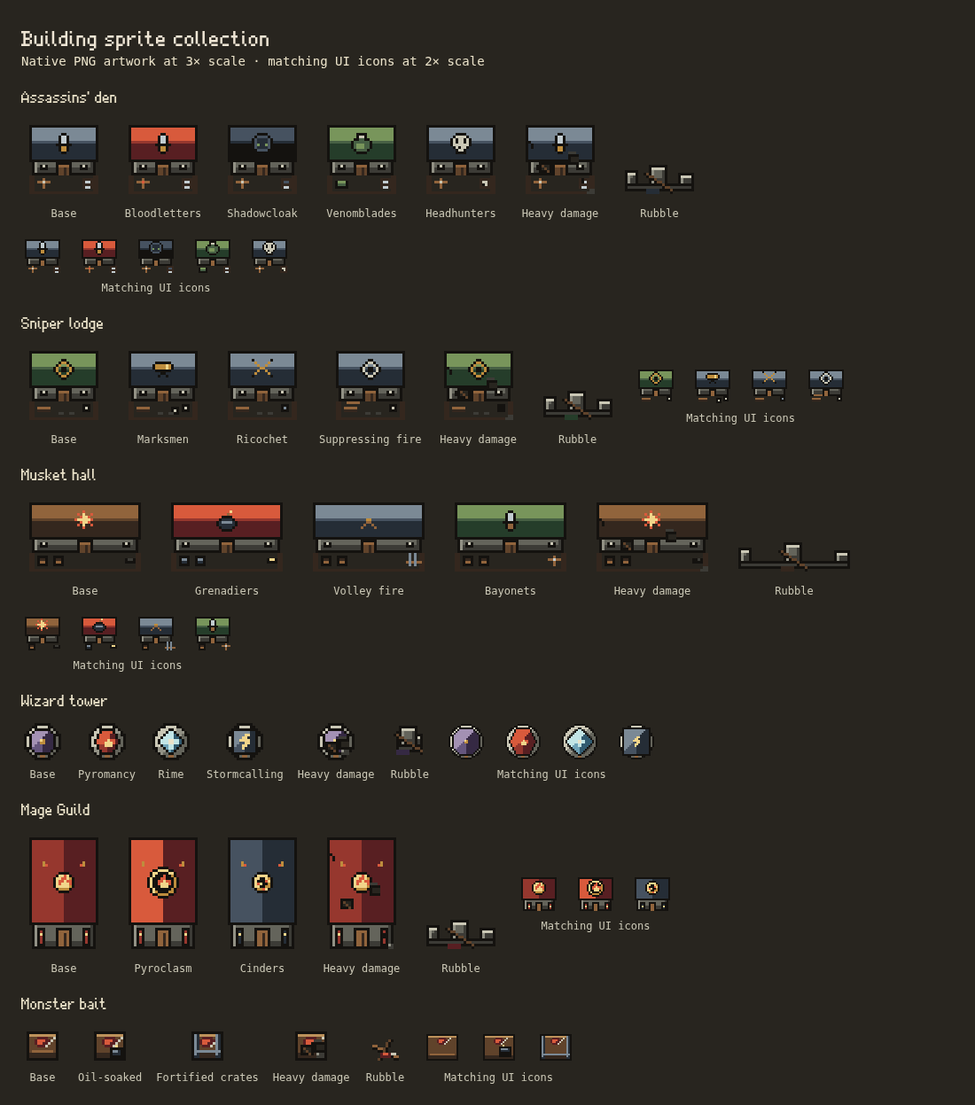
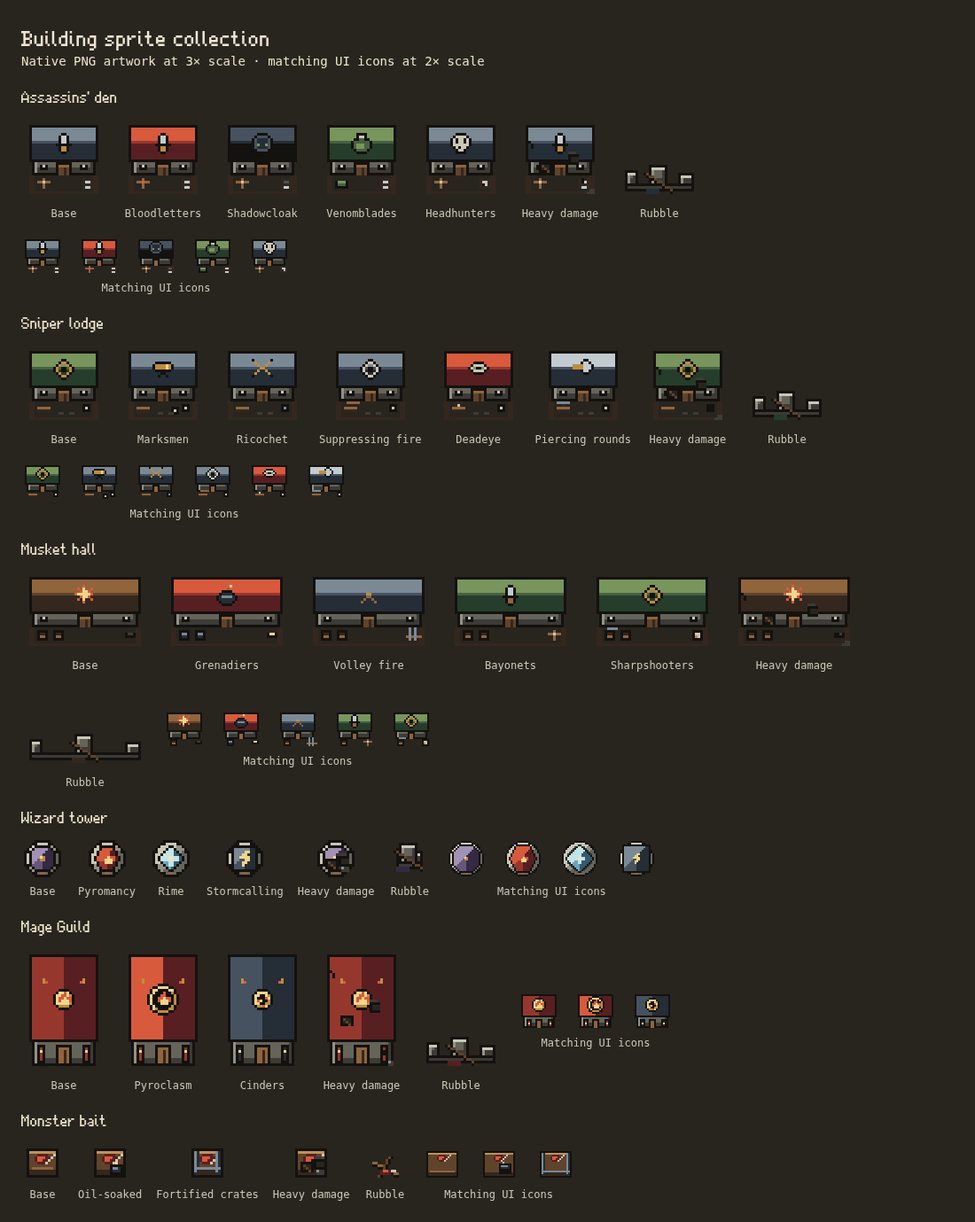
Match sprite paths to latest gunner upgrades and record validation

diff --git a/scripts/pixel-art/build.ts b/scripts/pixel-art/build.ts
@@ -300,10 +300,15 @@ function specialistRoof(kind: Specialist, look: string): Ramp {
     if (look === "shadowcloak") return ["ink", "steelDark", "steel"];
     return ["steelDark", "steel", "steelLight"];
   }
-  if (kind === "sniperLodge") return look ? ["steelDark", "steel", "steelLight"] : ["greenDark", "green", "greenLight"];
+  if (kind === "sniperLodge") {
+    if (look === "deadeye") return ["redDark", "red", "redLight"];
+    if (look === "piercing") return ["steelDark", "steel", "steelBright"];
+    return look ? ["steelDark", "steel", "steelLight"] : ["greenDark", "green", "greenLight"];
+  }
   if (look === "grenadiers") return ["redDark", "red", "redLight"];
   if (look === "volleyFire") return ["steelDark", "steel", "steelLight"];
   if (look === "bayonets") return ["greenDark", "green", "greenLight"];
+  if (look === "sharpMuskets") return ["greenDark", "green", "greenLight"];
   return ["woodDark", "wood", "woodLight"];
 }
 
@@ -321,7 +326,11 @@ function specialistEmblem(p: Drawing, kind: Specialist, look: string, cx: number
     else p.stamp(["...oo...", "..obbo..", "..obbo..", "..obbo..", ".oooooo.", "..oggo..", "..oggo..", "...oo..."], x, y,
       { o: "ink", b: "steelBright", g: "gold" });
   } else if (kind === "sniperLodge") {
-    if (look === "marksmen") p.stamp(["........", ".oooooo.", "ogggglgo", "ogggglgo", ".oooooo.", "...oo...", "..o..o..", "........"], x, y,
+    if (look === "deadeye") p.stamp(["........", "..oooo..", ".obbbbo.", "obgoogbo", ".obbbbo.", "..oooo..", "........", "........"], x, y,
+      { o: "ink", b: "stoneBright", g: "greenLight" });
+    else if (look === "piercing") p.stamp(["....oo..", "...obbo.", "ggggbbbo", "ggggbbbo", "...obbo.", "....oo..", "........", "........"], x, y,
+      { o: "ink", b: "steelBright", g: "gold" });
+    else if (look === "marksmen") p.stamp(["........", ".oooooo.", "ogggglgo", "ogggglgo", ".oooooo.", "...oo...", "..o..o..", "........"], x, y,
       { o: "ink", g: "gold", l: "goldLight" });
     else if (look === "ricochet") p.stamp(["o......o", ".g....g.", "..g..g..", "...gg...", "..g..g..", ".g....g.", "o......o", "........"], x, y,
       { o: "ink", g: "gold" });
@@ -334,7 +343,9 @@ function specialistEmblem(p: Drawing, kind: Specialist, look: string, cx: number
       p.line(x + 1, y + 1, x + 6, y + 6, "ink"); p.line(x + 6, y + 1, x + 1, y + 6, "ink");
       p.line(x + 1, y + 1, x + 3, y + 3, "steelLight"); p.line(x + 6, y + 1, x + 4, y + 3, "steelLight");
       p.line(x + 3, y + 3, x + 6, y + 6, "woodLight"); p.line(x + 4, y + 3, x + 1, y + 6, "woodLight"); p.rect(x + 3, y + 3, 2, 1, "gold");
-    } else if (look === "bayonets") p.stamp(["...oo...", "..obbo..", "..obbo..", "..obbo..", ".oooooo.", "..owwo..", "..owwo..", "...oo..."], x, y,
+    } else if (look === "sharpMuskets") p.stamp(["...oo...", "..obbo..", ".ob..bo.", "ob.oo.bo", "ob.oo.bo", ".ob..bo.", "..obbo..", "...oo..."], x, y,
+      { o: "ink", b: "gold" });
+    else if (look === "bayonets") p.stamp(["...oo...", "..obbo..", "..obbo..", "..obbo..", ".oooooo.", "..owwo..", "..owwo..", "...oo..."], x, y,
       { o: "ink", b: "steelBright", w: "woodLight" });
     else p.stamp(["...r....", ".r.y..r.", "..ryyr..", "ryyyyyr.", "..ryyr..", ".r.y..r.", "...r....", "........"], x, y,
       { r: "redLight", y: "goldLight" });
@@ -378,6 +389,8 @@ function specialistHall(kind: Specialist, look: string, ui = false) {
     if (look === "suppressors") p.rect(left + 1, y - 2, 5, 1, "woodLight");
     p.rect(right, y - 1, 3, 3, "ink"); p.dot(right + 1, y, look === "ricochet" ? "steelLight" : "stoneBright");
     if (look === "marksmen") { p.rect(right - 4, y, 3, 3, "ink"); p.dot(right - 3, y + 1, "stoneBright"); }
+    if (look === "deadeye") { p.rect(left + 1, y - 2, 3, 1, "woodDark"); p.dot(left + 2, y - 1, "stoneBright"); }
+    if (look === "piercing") { p.rect(left, y - 2, 5, 1, "steelLight"); p.dot(left + 2, y - 1, "steelDark"); }
     if (!ui) { p.rect(cx - 2, y + 2, 2, 1, "stoneDark"); p.rect(cx + 2, y + 2, 2, 1, "stoneDark"); }
   } else {
     for (const x of ui ? [left] : [left, left + 6]) {
@@ -387,6 +400,9 @@ function specialistHall(kind: Specialist, look: string, ui = false) {
     if (look === "volleyFire") {
       p.rect(right - 1, y + 1, 6, 1, "woodLight");
       for (const x of [right, right + 2]) p.rect(x, y - 2, 1, 5, "steelLight");
+    } else if (look === "sharpMuskets") {
+      p.rect(right, y - 1, 4, 4, "ink"); p.rect(right + 1, y, 2, 2, "stoneBright"); p.dot(right + 1, y + 1, "gold");
+      p.rect(left + 1, y - 2, 4, 1, "steelLight");
     } else if (look === "bayonets") {
       p.rect(right + 1, y - 1, 1, 4, "woodLight"); p.rect(right - 1, y, 5, 1, "woodLight"); p.dot(right + 1, y, "steelBright");
     } else {

diff --git a/src/defend/building-sprite-manifest.ts b/src/defend/building-sprite-manifest.ts
@@ -26,8 +26,8 @@ export const BUILDING_ART = {
   archerTower: { kind: "archerTower", sheet: "v2/defend/archer-tower", icon: "v2/ui/archer-tower", footprint: [2, 2], size: [16, 16], anchor: [8, 8], contentBounds: [1, 1, 14, 14], overhang: [0, 0, 0, 0], looks: ["", "fireArrows", "sharpshooters"], stages: 4 },
   cannonTower: { kind: "cannonTower", sheet: "v2/defend/cannon-tower", icon: "v2/ui/cannon-tower", footprint: [2, 2], size: [16, 16], anchor: [8, 8], contentBounds: [1, 1, 14, 14], overhang: [0, 0, 0, 0], looks: ["", "gunnery", "siegeShot"], stages: 4 },
   assassinDen: { kind: "assassinDen", sheet: "v2/defend/assassin-den", icon: "v2/ui/assassin-den", footprint: [4, 4], size: [32, 32], anchor: [16, 16], contentBounds: [3, 3, 26, 26], overhang: [0, 0, 0, 0], looks: ["", "bloodletters", "shadowcloak", "venom", "headhunters"], stages: 4 },
-  sniperLodge: { kind: "sniperLodge", sheet: "v2/defend/sniper-lodge", icon: "v2/ui/sniper-lodge", footprint: [4, 4], size: [32, 32], anchor: [16, 16], contentBounds: [3, 3, 26, 26], overhang: [0, 0, 0, 0], looks: ["", "marksmen", "ricochet", "suppressors"], stages: 4 },
-  musketHall: { kind: "musketHall", sheet: "v2/defend/musket-hall", icon: "v2/ui/musket-hall", footprint: [6, 4], size: [48, 32], anchor: [24, 16], contentBounds: [3, 3, 42, 26], overhang: [0, 0, 0, 0], looks: ["", "grenadiers", "volleyFire", "bayonets"], stages: 4 },
+  sniperLodge: { kind: "sniperLodge", sheet: "v2/defend/sniper-lodge", icon: "v2/ui/sniper-lodge", footprint: [4, 4], size: [32, 32], anchor: [16, 16], contentBounds: [3, 3, 26, 26], overhang: [0, 0, 0, 0], looks: ["", "marksmen", "ricochet", "suppressors", "deadeye", "piercing"], stages: 4 },
+  musketHall: { kind: "musketHall", sheet: "v2/defend/musket-hall", icon: "v2/ui/musket-hall", footprint: [6, 4], size: [48, 32], anchor: [24, 16], contentBounds: [3, 3, 42, 26], overhang: [0, 0, 0, 0], looks: ["", "grenadiers", "volleyFire", "bayonets", "sharpMuskets"], stages: 4 },
   wizardTower: { kind: "wizardTower", sheet: "v2/defend/wizard-tower", icon: "v2/ui/wizard-tower", footprint: [2, 2], size: [16, 16], anchor: [8, 8], contentBounds: [1, 1, 14, 14], overhang: [0, 0, 0, 0], looks: ["", "pyromancy", "rime", "storm"], stages: 4 },
   mageGuild: { kind: "mageGuild", sheet: "v2/defend/mage-guild", icon: "v2/ui/mage-guild", footprint: [4, 6], size: [32, 48], anchor: [16, 24], contentBounds: [3, 3, 26, 42], overhang: [0, 0, 0, 0], looks: ["", "pyroclasm", "cinders"], stages: 4 },
   monsterBait: { kind: "monsterBait", sheet: "v2/defend/monster-bait", icon: "v2/ui/monster-bait", footprint: [2, 2], size: [16, 16], anchor: [8, 8], contentBounds: [1, 1, 14, 14], overhang: [0, 0, 0, 0], looks: ["", "oilSoaked", "fortified"], stages: 4 },

diff --git a/docs/art/BUILDING_BATCH_03.md b/docs/art/BUILDING_BATCH_03.md
@@ -11,20 +11,20 @@ Paths are relative to `public/assets/pixel/v2/`. World-sheet columns are base + 
 | World sheet / UI sheet | World sheet size | Native frame / footprint in cells | Anchor | Looks |
 | --- | --- | --- | --- | --- |
 | `defend/assassin-den.png` / `ui/assassin-den.png` | 160×160 | 32×32 / 4×4 | 16,16 | Base, Bloodletters, Shadowcloak, Venomblades, Headhunters |
-| `defend/sniper-lodge.png` / `ui/sniper-lodge.png` | 128×160 | 32×32 / 4×4 | 16,16 | Base, Marksmen, Ricochet, Suppressing fire |
-| `defend/musket-hall.png` / `ui/musket-hall.png` | 192×160 | 48×32 / 6×4 | 24,16 | Base, Grenadiers, Volley fire, Bayonets |
+| `defend/sniper-lodge.png` / `ui/sniper-lodge.png` | 192×160 | 32×32 / 4×4 | 16,16 | Base, Marksmen, Ricochet, Suppressing fire, Deadeye, Piercing rounds |
+| `defend/musket-hall.png` / `ui/musket-hall.png` | 240×160 | 48×32 / 6×4 | 24,16 | Base, Grenadiers, Volley fire, Bayonets, Sharpshooters |
 | `defend/wizard-tower.png` / `ui/wizard-tower.png` | 64×80 | 16×16 / 2×2 | 8,8 | Base, Pyromancy, Rime, Stormcalling |
 | `defend/mage-guild.png` / `ui/mage-guild.png` | 96×240 | 32×48 / 4×6 | 16,24 | Base, Pyroclasm, Cinders |
 | `defend/monster-bait.png` / `ui/monster-bait.png` | 48×80 | 16×16 / 2×2 | 8,8 | Base, Oil-soaked, Fortified crates |
 
-UI frames are purpose-composed at 24×24. The den sheet is 120×24, the Sniper/Musket/Wizard sheets are 96×24, and the Mage/Bait sheets are 72×24. Total: **twelve PNG files, 115 world-state frames and 23 UI icons**.
+UI frames are purpose-composed at 24×24. The den sheet is 120×24, the Sniper sheet is 144×24, the Musket sheet is 120×24, the Wizard sheet is 96×24, and the Mage/Bait sheets are 72×24. Total: **twelve PNG files, 130 world-state frames and 26 UI icons**.
 
-The collection now covers **fourteen of sixteen building families**, with 31 native PNG sheets, 231 world-state frames and 42 matching UI icons, plus the existing flag/scaffold images. Valkyrie palace and Dark wizard keep remain pending, including their compact and special rendering cases.
+The collection now covers **fourteen of twenty-one building families**, with 31 native PNG sheets, 246 world-state frames and 45 matching UI icons, plus the existing flag/scaffold images. Valkyrie palace and Dark wizard keep remain pending, including their compact and special rendering cases. Main gained five gunner building families while this batch was in progress; Gunner hall, Machine-gun nest, Gatling emplacement, Rocket battery and Revolutionary are now tracked as pending too. The merge also added Deadeye, Piercing rounds and Musket Sharpshooters; this batch includes their PNGs.
 
 ## Art direction and integration
 
 - Stone, timber, steel, brass and cloth retain the earlier material ramps, crisp one-pixel outlines, quiet surfaces and upper-left lighting. The shared palette gains just two controlled three-color ramps: violet (`#352943`, `#65567D`, `#A391B3`) and frost (`#325B70`, `#6FA3B8`, `#C2E5E6`). The collection has 30 swatches, with the same limits of **16 opaque colors per standing world frame and 12 per UI icon**. No antialiased sprite alpha, blur, generated noise or external sprite pack.
-- Den paths use distinct blade, hood, vial and skull insignia and appropriate yard equipment; these are building emblems/props, not unit sprites. Sniper paths use a sight, brass spyglass, ricochet track or bright crosshair with targets/defensive rails. Musket paths use powder burst, grenade, crossed muskets or bayonet equipment and matching racks/stock.
+- Den paths use distinct blade, hood, vial and skull insignia and appropriate yard equipment; these are building emblems/props, not unit sprites. Sniper paths use a sight, brass spyglass, ricochet track or bright crosshair with targets/defensive rails; Deadeye adds a wine-red roof and eye, while Piercing rounds has a pale steel roof and an arrow through its sight. Musket paths use powder burst, grenade, crossed muskets or bayonet equipment and matching racks/stock; Sharpshooters adds a green roof, brass sight and long rifle rack.
 - Wizard paths change the roof silhouette as well as its material and finial: violet octagon, fire hexagon, frost diamond, storm square. Stone foundations and a south-facing entrance remain legible. Mage paths have the base fire well, a larger Pyroclasm well, or a charcoal roof/ember hearth for Cinders; the UI also distinguishes the larger well. Bait retains meat/bone cargo, an oil pot or iron straps; its rubble is broken timber and spilled cargo, not masonry.
 - Existing numerical ranks within each path share the same building look, matching the game's current path-look semantics. Rubble is shared across each family's paths after its equipment collapses. All path and damage frames retain their declared footprint, pivot and silhouette bounds; wide Musket halls and tall Mage Guilds use their actual catalog orientation, never stretched square images.
 - The shared manifest registers these PNGs automatically with the existing loader/cache revision. **Pixel Art checked selects the new sprites; unchecked restores the exact legacy drawings.** Loading/failed world sheets keep the existing fallback. Build palette, Tiles, building-tree canvases, carried icons and placement ghosts share the same family/path identity. Rebuilding uses the existing one-cell PNG scaffold.
@@ -34,7 +34,7 @@ The collection now covers **fourteen of sixteen building families**, with 31 nat
 
 `scripts/pixel-art/build.ts` contains the editable native drawings. `building-sprite-manifest.ts` records exact frame sizes, content bounds, anchors, footprints, paths and overhangs. Run `npm run sprites` to rebuild, or `npm run sprites -- --check` to verify the committed PNGs. All nineteen earlier sprite files are unchanged.
 
-The existing asset tests automatically cover every new file: reproducibility, PNG signature/decoding, palette/alpha limits, catalog footprints, every path, frame dimensions, content bounds and stable damage silhouettes. Browser checks exercise all 231 world frames at desktop/DPR1, phone/DPR2 and phone/DPR3, compare on/off rendering against independent legacy pixels, and check failed-image fallback, UI/drag/placement images, keep motion/masks, real reconstruction routing, sampling and camera transforms. The saved Settings/whole-board test covers the complete 66-image registry.
+The existing asset tests automatically cover every new file: reproducibility, PNG signature/decoding, palette/alpha limits, catalog footprints, every path, frame dimensions, content bounds and stable damage silhouettes. Browser checks exercise all 246 world frames at desktop/DPR1, phone/DPR2 and phone/DPR3, compare on/off rendering against independent legacy pixels, and check failed-image fallback, UI/drag/placement images, keep motion/masks, real reconstruction routing, sampling and camera transforms. The saved Settings/whole-board test covers the complete 66-image registry.
 
 Generate this batch's contact sheet while keeping all-family test coverage:
 
@@ -45,4 +45,11 @@ PLAYWRIGHT_EXECUTABLE=/usr/bin/chromium node tests/building-sprites.mjs
 
 A dev server is required; set `TEST_URL` to select it. The generated sheet is `test-results/building-sprites/contact-sheet.png`; its reviewed copy is committed above. All browser fixtures use isolated contexts and never a player's save.
 
-The twelve new files decode to **488,192 RGBA bytes (476.75 KiB)** before browser overhead. The entire clean building PNG collection decodes to **932.75 KiB**. No new animation passes or unbounded caches are introduced. Fractional overview sampling, remaining UI/theme/terrain artwork and the two large building families are still tracked in the [guide](PIXEL_ART_GUIDE.md) and [inventory](PIXEL_ART_INVENTORY.md).
+The twelve new files decode to **566,784 RGBA bytes (553.5 KiB)** before browser overhead. The entire clean building PNG collection decodes to **1,009.5 KiB**. No new animation passes or unbounded caches are introduced. Fractional overview sampling, remaining UI/theme/terrain artwork and the seven pending building families are still tracked in the [guide](PIXEL_ART_GUIDE.md) and [inventory](PIXEL_ART_INVENTORY.md).
+
+## Validation record
+
+- Full `npm test` passed after the merge: **579 tests, zero failures**.
+- Reproducible PNG check and production TypeScript/Vite build passed after incorporating main's gunner line and upgrade map. All nineteen previously delivered PNG files retain their exact bytes; the build copies all 31 current native PNGs unchanged.
+- Browser matrix passed all **246 world frames** at 1100px/DPR1, 390px/DPR2 and 360px/DPR3, including legacy on/off parity, icons, placement, camera transforms, reduced motion, reconstruction and missing-PNG fallback. Saved Settings/whole-board checks passed with all 66 registered images.
+- The existing stress fixture completed 120 recorded frames with 500 requested enemies (513 average including spawned enemies): mean simulation 1.97 ms, drawing 45.93 ms, combined work p95 101.70 ms. This is an instrumented whole-scene measurement in headless Chromium 154 at DPR1 using SwiftShader/software Canvas, with the Node suite running concurrently; it is neither a sprite-only cost nor a player-device frame-rate claim. JSON, CPU profile and screenshot are generated under `test-results/stress-building-batch03.*`.

diff --git a/docs/art/PIXEL_ART_INVENTORY.md b/docs/art/PIXEL_ART_INVENTORY.md
@@ -34,8 +34,13 @@ Source footprint dimensions are simulation cells. Proposed base footprint pixels
 | [x] | `meleeGuild` — Melee Guild | 4×4 → 32×32 | — | v2 base, all damage/rubble, rebuilding and UI; batch 02 |
 | [x] | `rangedGuild` — Ranged Guild | 4×4 → 32×32 | — | v2 base, all damage/rubble, rebuilding and UI; batch 02 |
 | [x] | `assassinDen` — Assassins' den | 4×4 → 32×32 | — | v2 base + Bloodletters/Shadowcloak/Venomblades/Headhunters, all damage/rubble, rebuilding and UI; batch 03 |
-| [x] | `sniperLodge` — Sniper lodge | 4×4 → 32×32 | — | v2 base + Marksmen/Ricochet/Suppressing fire, all damage/rubble, rebuilding and UI; batch 03 |
-| [x] | `musketHall` — Musket hall | 6×4 → 48×32 | — | v2 base + Grenadiers/Volley fire/Bayonets, all damage/rubble, rebuilding and UI; batch 03 |
+| [x] | `sniperLodge` — Sniper lodge | 4×4 → 32×32 | — | v2 base + Marksmen/Ricochet/Suppressing fire/Deadeye/Piercing rounds, all damage/rubble, rebuilding and UI; batch 03 |
+| [ ] | `gunHall` — Gunner hall | 4×4 → 32×32 | — | Create; gunner line merged during batch 03 |
+| [ ] | `gunNest` — Machine-gun nest | 4×4 → 32×32 | — | Create; gunner line merged during batch 03 |
+| [ ] | `gatlingNest` — Gatling emplacement | 4×4 → 32×32 | — | Create; gunner line merged during batch 03 |
+| [ ] | `rocketBattery` — Rocket battery | 4×4 → 32×32 | — | Create; gunner line merged during batch 03 |
+| [ ] | `revolutionary` — Revolutionary | 4×4 → 32×32 | — | Create; gunner line merged during batch 03 |
+| [x] | `musketHall` — Musket hall | 6×4 → 48×32 | — | v2 base + Grenadiers/Volley fire/Bayonets/Sharpshooters, all damage/rubble, rebuilding and UI; batch 03 |
 | [x] | `barracks` — Barracks | 4×6 → 32×48 | — | v2 normal/wide, base + Crusaders/Berserkers/Halberdiers, all damage/rubble, rebuilding and UI; batch 01 |
 | [x] | `archerBarracks` — Archer barracks | 4×4 → 32×32 | — | v2 base + Rangers/Skirmishers, all damage/rubble, rebuilding and UI; batch 02 |
 | [x] | `archerTower` — Archer tower | 2×2 → 16×16 | — | v2 base + Fire arrows/Sharpshooters, all damage/rubble, rebuilding and UI; batch 02 |
@@ -68,7 +73,7 @@ Areas: **Mossbound Ruins (`moss`), Amber Desert (`desert`), Ember Forge (`ember`
 
 ### B3. Friendly people and summoned units
 
-All twelve `Soldier.kind` values need a consistent sprite family, not just a color swap. Also cover civilian builders. Include movement, facing, attack/cast, hit/death, health/status overlays, weapon origin and shared UI portrait.
+All seventeen `Soldier.kind` values need a consistent sprite family, not just a color swap. Also cover civilian builders. Include movement, facing, attack/cast, hit/death, health/status overlays, weapon origin and shared UI portrait. All remain deferred from the current building-only sprite batches.
 
 | Pending | Unit | Special variants to retain |
 | --- | --- | --- |
@@ -79,6 +84,11 @@ All twelve `Soldier.kind` values need a consistent sprite family, not just a col
 | [ ] | `assassin` | Den paths; critical, cloak/reveal, poison and targeting cues. |
 | [ ] | `sniper` | Lodge path variants, rifle, aim, shots and specialist equipment. |
 | [ ] | `musketeer` | Musket Hall paths, firing/reload, grenades and specialist equipment. |
+| [ ] | `gunner` | Pistol, Quickdraw/Duelists equipment, firing/reload and facing. |
+| [ ] | `machineGunner` | Machine gun, Belt feed/Tripod equipment, firing/reload and facing. |
+| [ ] | `gatlingGunner` | Gatling barrels, Gun shield/Overdrive/Stopping power equipment and recoil. |
+| [ ] | `rocketeer` | Rocket launcher, Cluster rockets/Salvo racks equipment, firing/reload and facing. |
+| [ ] | `railSniper` | Revolutionary equipment, rifle, targeting and laser attachment points. |
 | [ ] | `mage` | Mage Guild paths, staff/robe, casts and persistent fire effects. |
 | [ ] | `valkyrie` | Palace paths, spear, wings, charge and guard states. |
 | [ ] | `darkWizard` | Dark Keep paths, robe/staff and chain-lightning states. |
@@ -159,7 +169,7 @@ Preserve the Library's side-view geometry (`library/geometry.ts`: current nave 1
 
 ## F. Batch tracking
 
-**Implemented: [batch 03](BUILDING_BATCH_03.md)** — Assassins' den, Sniper lodge, Musket hall, Wizard tower, Mage Guild and Monster bait; twelve PNG sheets, 115 world-state frames and 23 matching UI icons. Includes all existing path looks, damage, rebuilding, and material-appropriate rubble. Two shared magic ramps extend the palette to 30 swatches while retaining the 16-color world/12-color UI limits. All nineteen earlier PNGs stay unchanged. Current building coverage: fourteen of sixteen families, 31 native PNG sheets, 231 world-state frames and 42 UI icons. Valkyrie palace, Dark wizard keep, terrain/theme work, units and enemies remain separate work.
+**Implemented: [batch 03](BUILDING_BATCH_03.md)** — Assassins' den, Sniper lodge, Musket hall, Wizard tower, Mage Guild and Monster bait; twelve PNG sheets, 130 world-state frames and 26 matching UI icons. Includes all existing path looks, damage, rebuilding, and material-appropriate rubble. Two shared magic ramps extend the palette to 30 swatches while retaining the 16-color world/12-color UI limits. All nineteen earlier PNGs stay unchanged. Current building coverage: fourteen of twenty-one families, 31 native PNG sheets, 246 world-state frames and 45 UI icons. Valkyrie palace, Dark wizard keep, the five newly merged gunner buildings, terrain/theme work, units and enemies remain separate work.
 
 **Implemented: [batch 02](BUILDING_BATCH_02.md)** — melee/ranged guilds, archer barracks, archer tower and cannon tower; ten PNG sheets, 55 world-state frames and 11 matching UI icons. Uses the existing gated frame/rubble/scaffold/placement/icon routes, with all original batch-01 PNGs unchanged. Its delivery brought building coverage to eight of the sixteen catalog families; 19 native PNG sheets, 116 world-state frames and 19 UI icons.
 
@@ -337,6 +347,18 @@ Every path row requires each rank's icon **and** its actual building/unit/spell 
 | [ ] | `sniperLodge` / `marksmen` | Marksmen | `spyglass`, `crosshair`, `skull` |
 | [ ] | `sniperLodge` / `ricochet` | Ricochet | `fork`, `cannonball`, `bolt` |
 | [ ] | `sniperLodge` / `suppressors` | Suppressing fire | `boot`, `stake`, `gear` |
+| [ ] | `sniperLodge` / `deadeye` | Deadeye | `eye`, `crosshair`, `skull` |
+| [ ] | `sniperLodge` / `piercing` | Piercing rounds | `arrow`, `shard`, `spyglass` |
+| [ ] | `musketHall` / `sharpMuskets` | Sharpshooters | `spyglass`, `crosshair`, `skull`; → `sniperLodge` |
+| [ ] | `gunHall` / `quickdraw` | Quickdraw | `hand`, `volley`, `fork` |
+| [ ] | `gunHall` / `duelists` | Duelists | `blast`, `spyglass`, `crosshair` |
+| [ ] | `gunNest` / `beltFeed` | Belt feed | `gear`, `cannonball`, `volley`; → `gatlingNest` |
+| [ ] | `gunNest` / `tripod` | Tripod | `spyglass`, `crosshair`, `arrow` |
+| [ ] | `gatlingNest` / `gunShield` | Gun shield | `frostShield`, `gear`, `helm` |
+| [ ] | `gatlingNest` / `overdrive` | Overdrive | `cannonball`, `blast`, `inferno` |
+| [ ] | `gatlingNest` / `stoppingPower` | Stopping power | `hammer`, `volley`, `frostShield` |
+| [ ] | `rocketBattery` / `clusterRockets` | Cluster rockets | `blast`, `grape`, `inferno` |
+| [ ] | `rocketBattery` / `salvoRacks` | Salvo racks | `gear`, `volley`, `stars` |
 | [ ] | `archerTower` / `fireArrows` | Fire arrows | `fireArrow`, `flame`, `volley` |
 | [ ] | `archerTower` / `sharpshooters` | Sharpshooters | `eye`, `crosshair`, `skull` |
 | [ ] | `cannonTower` / `gunnery` | Gun crews | `gear`, `grape`, `mail` |

diff --git a/AGENTS.md b/AGENTS.md
@@ -156,7 +156,7 @@ node tests/building-sprites.mjs # PNG paths/damage/rubble/icons, exact legacy fa
 
 ## Conventions
 
-- Clean PNG building coverage is fourteen of sixteen families: the original keep, barracks (normal/wide), watchTower, meleeGuild, rangedGuild, archerBarracks and archer/cannon towers, plus assassinDen, sniperLodge, musketHall, wizardTower, mageGuild and monsterBait with every existing `PATH_LOOKS` variant. Valkyrie palace and Dark wizard keep remain separate migration work. `src/defend/building-sprite-manifest.ts` specifies footprint, frame size, content bounds, pivot, overhang and sheet layout; `scripts/pixel-art/build.ts` authors deterministic native PNGs and square UI icons using the shared 30-color palette (24 material swatches plus arcane/frost ramps). `npm run sprites` writes 31 files under `public/assets/pixel/v2/`; its typed `DRAW_BUILDING` table requires a painter for each manifest entry. Specialist halls have explicit world/UI compositions; wizard roofs have octagon/hexagon/diamond/square path silhouettes; mage halls have fire-well/coals variants; bait has wooden rubble rather than stone. Per-frame limits stay 16 colors for standing world art and 12 for UI. `--check` and `tests/building-sprites.test.ts` verify delivery, palette/alpha and frame/grid invariants, including base-only families. All images use the existing `pixel-sprites.ts` loader and cache revision. `structure-art.ts` owns standing/rubble/icon/flag/keep-flash selection; `city-layer.ts` routes rubble/rebuilding; `edit-overlay.ts` uses footprint/path metadata for placement ghosts; `BoardPointers` marks drag icons for art-toggle redraws. `render.ts` disables final city-layer smoothing only in pixel mode. No new unit/enemy art is included. `tests/building-sprites.mjs` validates every registered family/frame; `SPRITE_KINDS=assassinDen,sniperLodge,musketHall,wizardTower,mageGuild,monsterBait` limits only its contact sheet, not test coverage. Batch notes: [01](docs/art/BUILDING_BATCH_01.md), [02](docs/art/BUILDING_BATCH_02.md), [03](docs/art/BUILDING_BATCH_03.md).
+- Clean PNG building coverage is fourteen of twenty-one families: the original keep, barracks (normal/wide), watchTower, meleeGuild, rangedGuild, archerBarracks and archer/cannon towers, plus assassinDen, sniperLodge, musketHall, wizardTower, mageGuild and monsterBait with every existing `PATH_LOOKS` variant. Valkyrie palace, Dark wizard keep and the five new gunner buildings (gunHall, gunNest, gatlingNest, rocketBattery, revolutionary) remain separate migration work. `src/defend/building-sprite-manifest.ts` specifies footprint, frame size, content bounds, pivot, overhang and sheet layout; `scripts/pixel-art/build.ts` authors deterministic native PNGs and square UI icons using the shared 30-color palette (24 material swatches plus arcane/frost ramps). `npm run sprites` writes 31 files under `public/assets/pixel/v2/`; its typed `DRAW_BUILDING` table requires a painter for each manifest entry. Specialist halls have explicit world/UI compositions; wizard roofs have octagon/hexagon/diamond/square path silhouettes; mage halls have fire-well/coals variants; bait has wooden rubble rather than stone. Per-frame limits stay 16 colors for standing world art and 12 for UI. `--check` and `tests/building-sprites.test.ts` verify delivery, palette/alpha and frame/grid invariants, including base-only families. All images use the existing `pixel-sprites.ts` loader and cache revision. `structure-art.ts` owns standing/rubble/icon/flag/keep-flash selection; `city-layer.ts` routes rubble/rebuilding; `edit-overlay.ts` uses footprint/path metadata for placement ghosts; `BoardPointers` marks drag icons for art-toggle redraws. `render.ts` disables final city-layer smoothing only in pixel mode. No new unit/enemy art is included. `tests/building-sprites.mjs` validates every registered family/frame; `SPRITE_KINDS=assassinDen,sniperLodge,musketHall,wizardTower,mageGuild,monsterBait` limits only its contact sheet, not test coverage. Batch notes: [01](docs/art/BUILDING_BATCH_01.md), [02](docs/art/BUILDING_BATCH_02.md), [03](docs/art/BUILDING_BATCH_03.md).
 
 - New or revised sprite artwork must follow [docs/art/PIXEL_ART_GUIDE.md](docs/art/PIXEL_ART_GUIDE.md) and update [docs/art/PIXEL_ART_INVENTORY.md](docs/art/PIXEL_ART_INVENTORY.md). New sprites and sheets are PNG, including UI. Gate replacements on `settings.pixelArt` (separate from `pixelFont`), retain every legacy/off renderer and asset, and use the documented 8-pixel-per-cell grid, footprint/anchor metadata, shared palette and cross-screen state checklist. Existing SVG theme assets remain for the legacy branch. The guide/inventory establish the migration plan; unchecked rows are not completed art.
 

diff --git a/docs/art/PIXEL_ART_GUIDE.md b/docs/art/PIXEL_ART_GUIDE.md
@@ -32,7 +32,7 @@ At ordinary play size the player should identify an archer tower, watch tower, b
 - Keep Simple square enemies/troops as intentional accessibility/performance overrides. Keep Reduce Motion, grass/water effects, health-bar and grid preferences independent. A pixel-art preference must not force animation or hide gameplay information.
 - Art selection must never change collision, pathfinding, targeting, costs, damage, placement rules, RNG streams, or save compatibility.
 
-**Current state:** [Batch 01](BUILDING_BATCH_01.md), [batch 02](BUILDING_BATCH_02.md) and [batch 03](BUILDING_BATCH_03.md) supply 31 native PNG sheets for fourteen building families. They cover 231 world-state frames and 42 matching UI icons, plus the keep flag and rebuilding module. Valkyrie palace and Dark wizard keep remain in the building inventory. The shared loader also retains the original 35 imported PNGs for other partial Defend coverage/reference. Existing baseline UI PNGs are not all controlled by the Pixel Art switch. Each replacement needs an explicit integration review; the toggle's existence does not establish complete coverage.
+**Current state:** [Batch 01](BUILDING_BATCH_01.md), [batch 02](BUILDING_BATCH_02.md) and [batch 03](BUILDING_BATCH_03.md) supply 31 native PNG sheets for fourteen building families. They cover 246 world-state frames and 45 matching UI icons, plus the keep flag and rebuilding module. Valkyrie palace, Dark wizard keep and the five new gunner buildings remain in the building inventory (fourteen of twenty-one families are delivered). The shared loader also retains the original 35 imported PNGs for other partial Defend coverage/reference. Existing baseline UI PNGs are not all controlled by the Pixel Art switch. Each replacement needs an explicit integration review; the toggle's existence does not establish complete coverage.
 
 ## 3. A single pixel language
 

diff --git a/README.md b/README.md
@@ -10,7 +10,7 @@ New sprite work follows the [pixel-art style guide](docs/art/PIXEL_ART_GUIDE.md)
 
 The [first building batch](docs/art/BUILDING_BATCH_01.md) implements the keep, barracks and watch tower. [Batch 02](docs/art/BUILDING_BATCH_02.md) adds the Melee Guild, Ranged Guild, archer barracks, archer tower and cannon tower. Both include applicable path/damage/rubble variants and matching UI icons. Rebuild their committed PNGs with `npm run sprites`; verify them with `npm run sprites -- --check`.
 
-[Batch 03](docs/art/BUILDING_BATCH_03.md) adds Assassins' den, Sniper lodge, Musket hall, Wizard tower, Mage Guild and Monster bait, bringing coverage to fourteen of sixteen building families, with their path/damage/rubble variants and matching UI icons.
+[Batch 03](docs/art/BUILDING_BATCH_03.md) adds Assassins' den, Sniper lodge, Musket hall, Wizard tower, Mage Guild and Monster bait, bringing coverage to fourteen of twenty-one building families, with their path/damage/rubble variants and matching UI icons.
 
 ## Run
 
